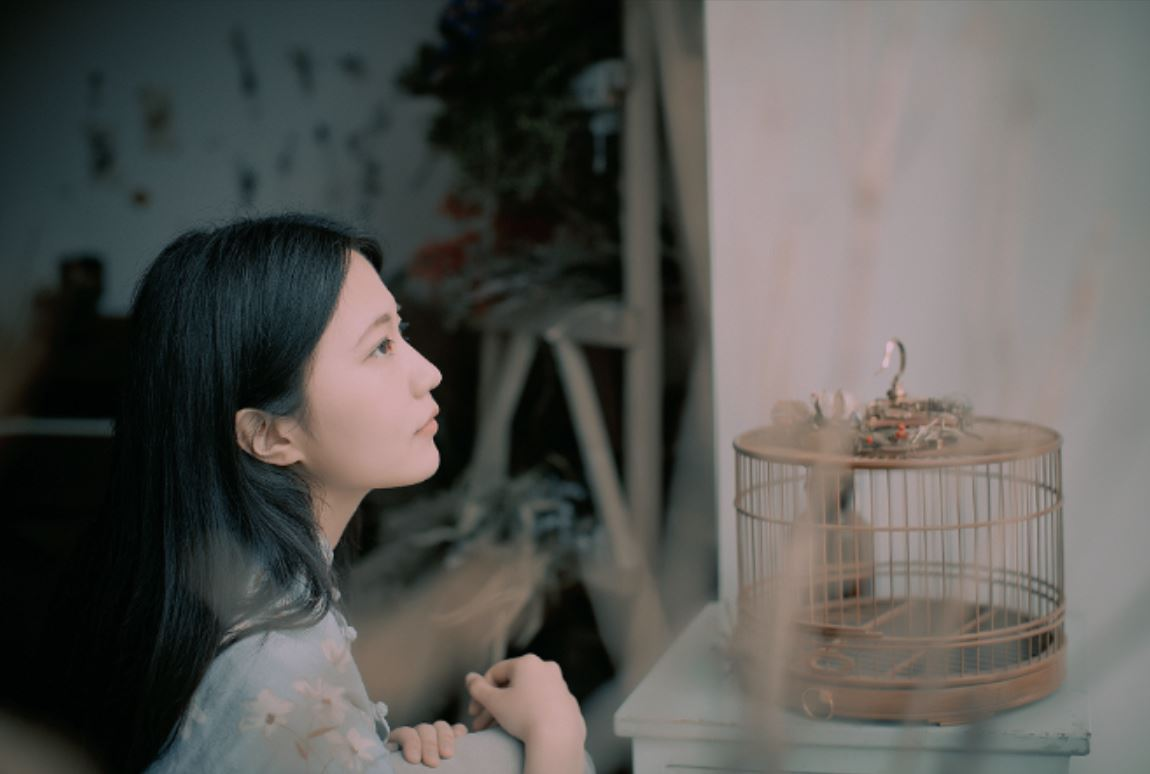
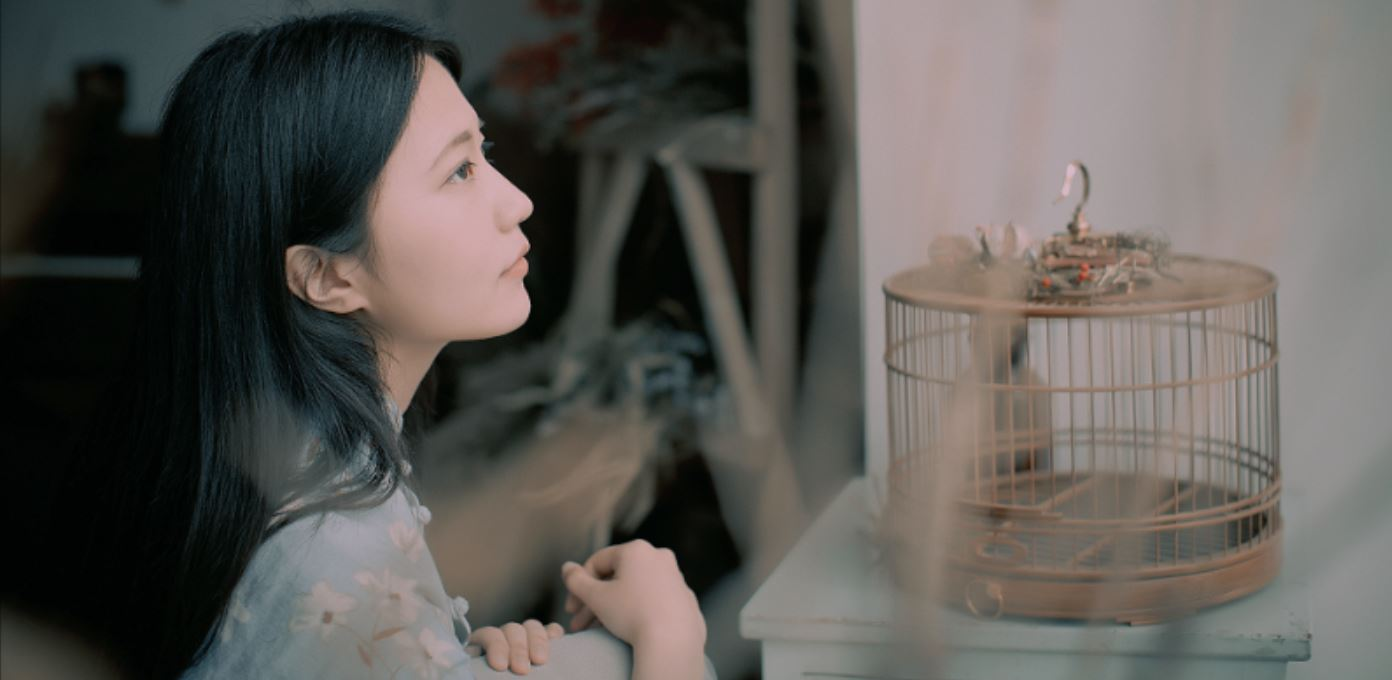
update whole structure

diff --git a/css/personal info.css b/css/personal info.css
@@ -6,29 +6,29 @@
 	text-decoration:none;
 }
 body{
-	background-image:url(../images/写真.JPG);
+	background-image:url(../images/blog_background.JPG);
 	background-size: 100%;
 	position:relative;
-<<<<<<< HEAD
 	background-repeat: no-repeat;
-=======
-	background-repeat:no-repeat;
->>>>>>> origin/master
+	overflow:hidden;
 }
 #wrap{
 	width:100%;
 	margin:0 auto;
+	overflow: hidden;
 }
 #header{
 	width：100%;
-	height:30px;
+	height:10%;
 	color:white;
 	padding:10px;
+	overflow:hidden;
 }
 #name{
 	vertical-align: middle;
 	margin:0 20px;
 	float:left;
+	font-size:12px;
 }
 #contact{
 	display:inline-block;
@@ -46,36 +46,65 @@ body{
 #contact .copy_right{
 	color:white;
 	font-size:5px;
+	text-decoration:line-through;
 }
-#project{
+.mainbody_wrap{
+	overflow:hidden;
 	width:100%;
-	height:300px;
-	margin:50px auto;
+	display:flex;
 }
-#project td{
+.mainbody {
+	display:flex;
+	flex-direction:row;
+	flex-wrap:wrap;
+	height:100%;
+	width:85%;
+	margin:auto;
+}
+.nav{
+	display:block;
+	width:15%;
+	background:rgba(252,250,242,0.3); 
+	height:180px;
+	margin:auto;
+	margin-top: 5px;
+	padding-top:10px;
+	margin-left:3px;
+	border-radius:3px;
+	box-shadow: 1px 1px 2px #ddd;
+}
+.project{
 	text-align:center;
-	width:100px;
+	width:98%;
+	height:100px;
+	margin:auto;
+	border-radius: 3px;
+	margin-top:5px;
 }
-#project td a {
-	font-size:20px;
+.project a {
+	font-size:18px;
 	color:white;
 	font-family:"Times New Roman";
 	font-style:oblique;
+	line-height:100px;
 }
-#project td{
-	border-radius: 3px;
-}
-#project .proj1{
+.proj1{
 	background:rgba(168,216,185,0.5); 
 }
-#project .proj2{
+.proj2{
 	background:rgba(106,76,56,0.5); 
 }
-#project .proj3{
+.proj3{
 	background:rgba(240,94,28,0.5); 
 }
-#project .proj4{
+.proj4{
 	background:rgba(248,195,205,0.5);
+}
+.proj5{
+	background:rgba(215,196,187,0.5);
+}
+.proj6{
+	background:rgba(203,27,69,0.5);
 }
 #footer{
 	width:100%;
@@ -83,10 +112,30 @@ body{
 	color:#eee;
 	text-align:center;
 	font-size:12px;
+	position:fixed;
+	bottom:0;
 }
-<<<<<<< HEAD
-#project{
-	
+.nav li{
+	width:100%;
+	height:30px;
+	text-align:center;
+	display:block;
+	border-bottom:solid 0.5px #000;
 }
-=======
->>>>>>> origin/master
+.nav li a{
+	line-height:30px;
+	display:inline-block;
+	width:80%;
+	margin:0 auto;
+	color:black;
+	text-align:center;
+	font-size:12px;
+
+}
+.nav .selected a{
+	color:white;
+	font-style:italic;
+}
+.portfolio{
+
+}

diff --git a/html/baidu-ife/baidu-ife-tasks.html b/html/baidu-ife/baidu-ife-tasks.html
@@ -4,29 +4,65 @@
 <meta charset="utf-8">
 <title>baidu-fe-tasks</title>
 <style>
-*{margin:0;padding:0}
-  table{display:block; width:60%; margin:0 auto;list-style:none;}
-  tr{width:100%}
-  td{border:#ccc solid 1px; border-radius:2px;margin:10px;}
-  a{text-decoration:none}
+*{
+	margin:0;
+	padding:0;
+	font-size:16px;
+	font-family:"微软雅黑";
+}
+body{
+	background-image:url(../../images/写真.JPG);
+	background-size: 100%;
+	display:flex;
+	height:500px;
+}
+.wrap{
+	width:400px;
+	display:flex;
+	flex-direction:row;
+	height:300px;
+	margin:auto;
+	flex-wrap: wrap;
+}
+.wrap a{
+	display:block;
+	width:100px;
+	height:100px;
+	line-height: 100px;
+	text-align:center;
+	text-decoration:none;
+	color:white;
+	box-sizing: border-box;
+	border-collapse: collapse;
+	border:0.5px solid white;
+	border-radius: 5px;
+}
+.wrap .selected{
+	background:rgba(0,0,0,0.7);
+	color:white;
+}
+.wrap .p{
+	background:rgba(119,64,141,0.5);
+}
+.wrap .g{
+	background:rgba(0,137,108,0.5);
+}
 </style>
 </head>
-
 <body>
-<table>
-<tr><td><a href="task1.html">Task 1</a></td>
-<td><a href="task2.html">Task 2</a></td>
-<td><a href="task3.html">Task 3</a></td></tr>
-<tr><td><a href="task4.html">Task 4</a></td>
-<td><a href="task5.html">Task 5</a></td>
-<td><a href="task6.html">Task 6</a></td>
-</tr>
-<tr><td><a href="task7.html">Task 7</a></td>
-<td><a href="task8.html">Task 8</a></td>
-<td><a href="task9.html">Task 9</a></td></tr>
-<tr><td><a href="task10.html">Task 10</a></td>
-<td><a href="task11.html">Task 11</a></td></tr>
-</table>
-
+<div class="wrap">
+<a href="task1.html">Task 1</a>
+<a href="task2.html">Task 2</a>
+<a href="task3.html">Task 3</a>
+<a href="task4.html">Task 4</a>
+<a href="task5.html">Task 5</a>
+<a class="selected" href="task6.html">Task 6</a>
+<a href="task7.html">Task 7</a>
+<a class="selected p" href="task8.html">Task 8</a>
+<a class="selected g" href="task9.html">Task 9</a>
+<a href="task10.html">Task 10</a>
+<a href="task11.html">Task 11</a>
+<a href="task12.html">Task 12</a>
+</div>
 </body>
 </html>

diff --git a/index.html b/index.html
@@ -5,7 +5,6 @@
 <title>Personal Info Jason</title>
 <script type="text/javascript" src="javascripts/jquery-2.2.3.js"></script>
 <link href="css/personal info.css" rel="stylesheet" type="text/css">
-<script type="text/javascript" src="javascripts/personal_blog.js"></script>
 </head>
 
 <body>
@@ -16,29 +15,29 @@
         <li class="phone">Jasonlee1900@outlook.com</li>
         <li class="copy_right">背景来自google图片</li>
         </ul>      
-    </div>
-    <div id="mainbody">
-      <table id="project">
-       <tr>
-       <td class="project_name proj1">
+    </div>    
+    <div class="mainbody_wrap">
+    <ul class="nav">
+    <li><a href="#">Personal Resume</a></li>
+    <li><a href="#">My Hobbies</a></li>
+    <li><a href="#">Photagraphy</a></li>
+    <li class="selected"><a href="#">E-Portfolios</a></li>
+    <li><a href="#">Other Information</a></li>
+    </ul>
+    <div class="mainbody portfolio">
+       <div class="project proj1">
          <a href="html/imgae_processing/E-images-processing.html">Image Processing Project</a>
-       </td>
-       <td class="project_name proj2">
+       </div>
+       <div class="project proj2">
          <a href="html/UI-lerning/UI-learning.html">Web front - User Interface Learning</a>
-       </td>
-       <td class="project_name proj3">
+       </div>
+       <div class="project proj3">
        <a href="html/baidu-ife/baidu-ife-tasks.html">Baidu-Ife</a>
-       </td>
-       </tr>
-       <tr>
-       <td class="project_name proj4">
-         <a href="html/Essays/Essays.html">Beautiful Essays Collection</a>
-       </td>
-       </tr>
-      </table>
+       </div>
+    </div>
   </div>
+  
   <div id="footer">&copy;本网页为个人网页，所有图片资源均注明出处
-
   </div>
   </div>
 </body>

diff --git a/html/baidu-ife/task8.html b/html/baidu-ife/task8.html
@@ -7,12 +7,6 @@
 </head>
 <body>  
   <div class="grid-container">
-    <p>If you open this in a screen bigger than 1335px, the view is different from the one you view from a screen smaller than 1335px.</p>
-    <p>Try it in different devices!</p>
-    <p>In bigger device: the rows will be shown as: [4,4,4][3,6,3],[1,1,2,2,6]</p>
-    <p>In smaller device: [6,6],[12],[3,6,3],[2,2,8],[3,3]</p>
-    <p></p>
-    <p></p>
     <div class="row">
       <div class="col-4"><div></div></div>
       <div class="col-4"><div></div></div>

diff --git a/html/baidu-ife/css/task8.css b/html/baidu-ife/css/task8.css
@@ -1,9 +1,9 @@
-*{
+*{
 	margin:0;
     padding:0;
 }
 .grid-container{
-	box-sizing:border-box;
+	box-sizing: border-box;
 	width:100%;
 	max-width: 1200px;
 	background:#fff;
@@ -30,7 +30,7 @@
 	border: solid 1px #999;
 	height:50px;//高度为50px。
 }
-@media all and (min-width:1334.1px){
+@media all and (min-width:768.1px){
 	.col-1{
 		width:8.33%;
 	}
@@ -50,7 +50,7 @@
 		width:50%;
 	}
 }
-@media all and (max-width:1334px){
+@media all and (max-width:768px){
 	.col-1{
 		width:16.67%;
 	}

diff --git a/html/baidu-ife/test9.html b/html/baidu-ife/test9.html
@@ -1,0 +1,22 @@
+<!DOCTYPE html>
+<html>
+<head>
+<meta charset="utf-8">
+<style>
+body{
+background:#eee;
+}
+div div{
+	width:100px;
+	height:50px;
+	background-image:url(素材/task_1_9_1_0000s_0000s_0001__编组_.png);
+}
+</style>
+</head>
+<body>
+<div>
+<div>
+</div>
+</div>
+</body>
+</html>

diff --git a/html/Essays/Essays.html b/html/Essays/Essays.html
@@ -1,0 +1,6 @@
+<!DOCTYPE html>
+<head>
+<meta charset="utf-8">
+<link href="essay.css" type="text/css" rel="stylesheet" /> 
+<title>Beautiful Essays</title>
+</head>
